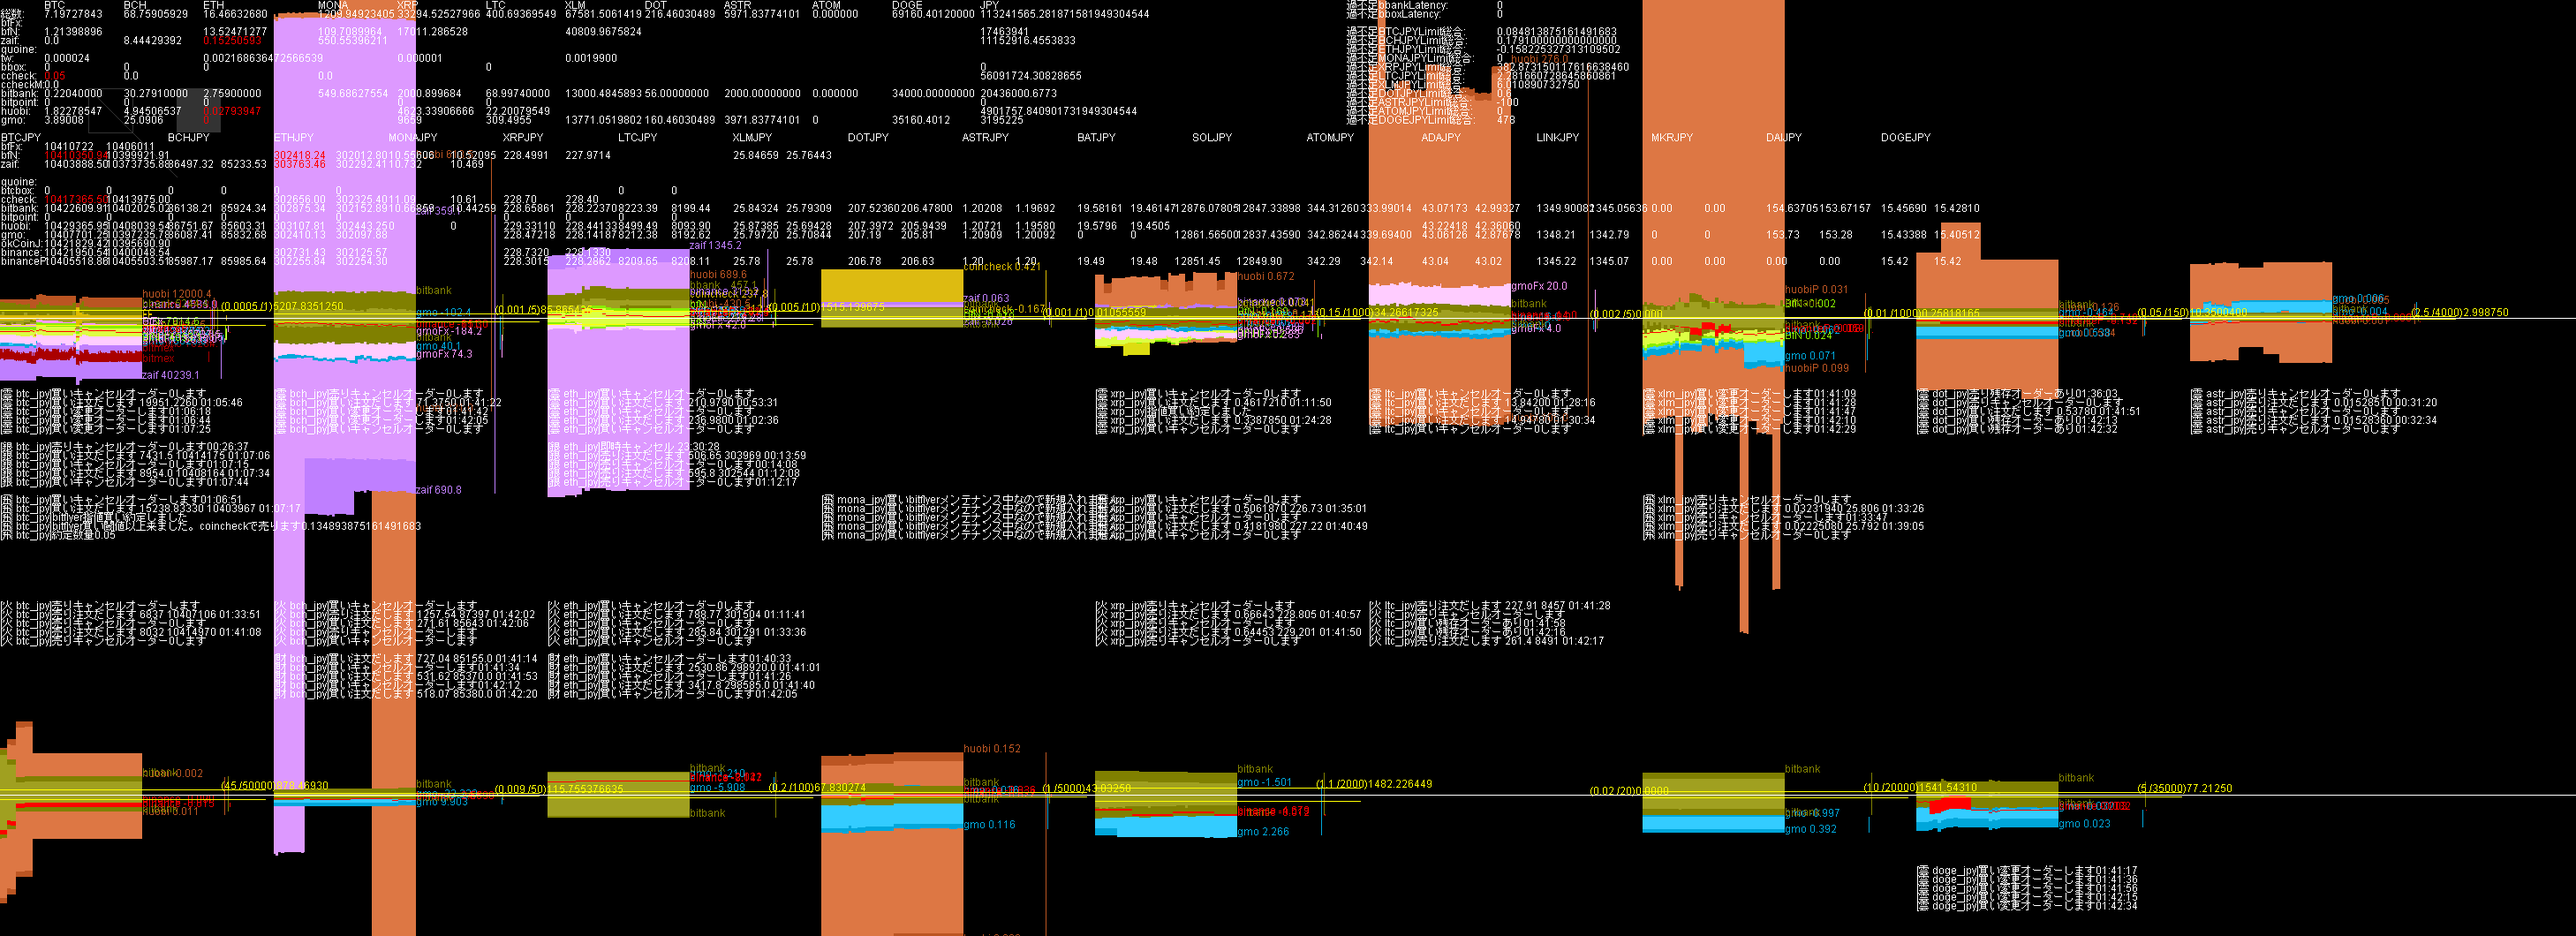
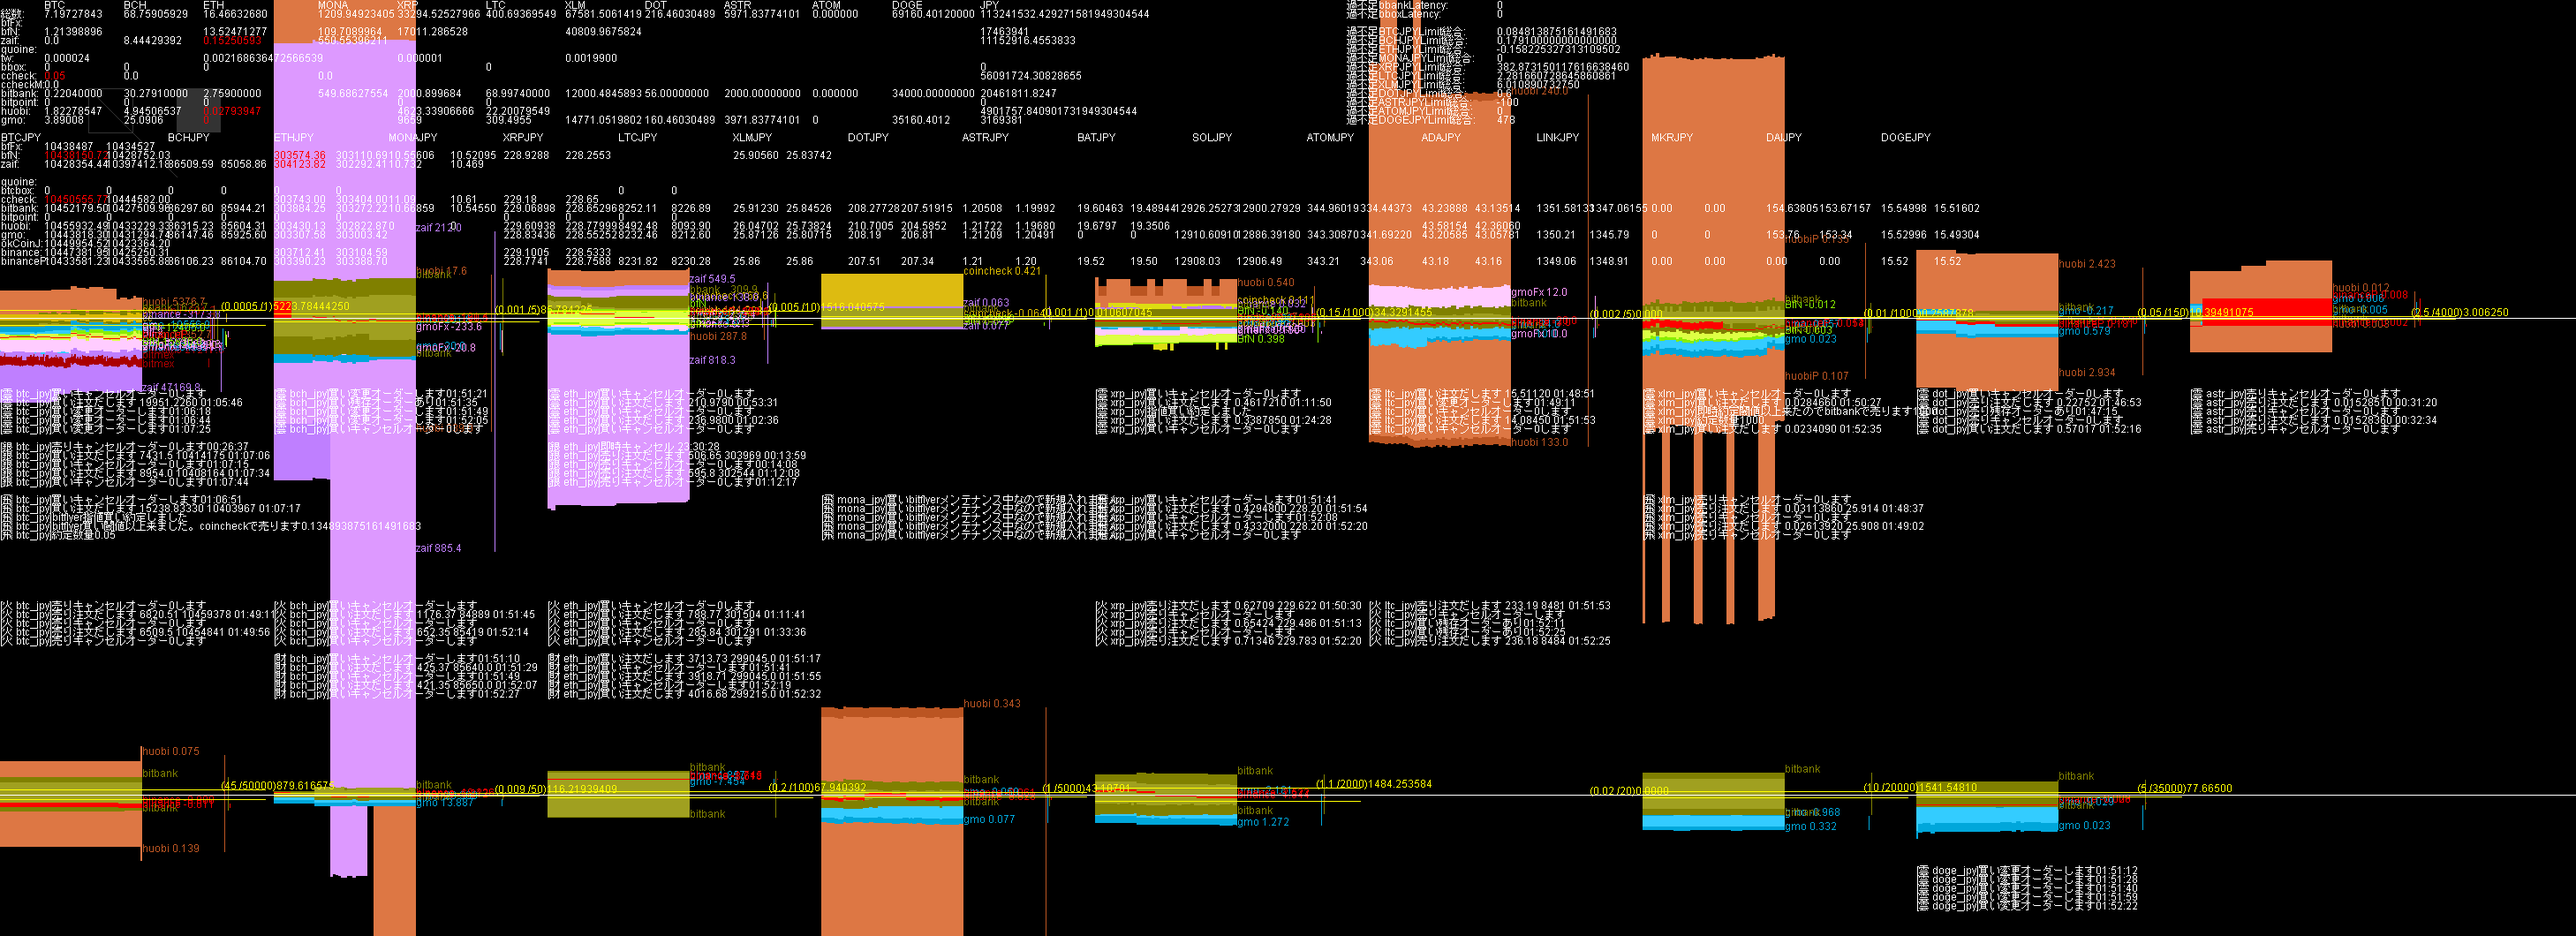
Update HTML file via Java

diff --git a/ca.html b/ca.html
@@ -16,6 +16,9 @@ th { background-color: #222; text-align: center; }
     <tr><th>ddhhmm</th><th>bfJPY</th><th>財JPY</th><th>ccJPY</th><th>銀JPY</th><th>火JPY</th><th>雲JPY</th><th>bfBTC</th><th>財BTC</th><th>ccBTC</th><th>銀BTC</th><th>火BTC</th><th>雲BTC</th><th>bfBCH</th><th>財BCH</th><th>ccBCH</th><th>銀BCH</th><th>火BCH</th><th>雲BCH</th><th>bfETH</th><th>財ETH</th><th>ccETH</th><th>銀ETH</th><th>火ETH</th><th>雲ETH</th><th>bfMONA</th><th>財MONA</th><th>ccMONA</th><th>銀MONA</th><th>火MONA</th><th>雲MONA</th><th>bfXRP</th><th>財XRP</th><th>ccXRP</th><th>銀XRP</th><th>火XRP</th><th>雲XRP</th><th>bfLTC</th><th>財LTC</th><th>ccLTC</th><th>銀LTC</th><th>火LTC</th><th>雲LTC</th><th>bfXLM</th><th>財XLM</th><th>ccXLM</th><th>銀XLM</th><th>火XLM</th><th>雲XLM</th><th>bfDOT</th><th>財DOT</th><th>ccDOT</th><th>銀DOT</th><th>火DOT</th><th>雲DOT</th><th>bfASTR</th><th>財ASTR</th><th>ccASTR</th><th>銀ASTR</th><th>火ASTR</th><th>雲ASTR</th><th>bfDOGE</th><th>財DOGE</th><th>ccDOGE</th><th>銀DOGE</th><th>火DOGE</th><th>雲DOGE</th>    </tr>  </thead>
   <tbody>
     <tr>
+<td>170152</td><td>01746</td><td>01115</td><td>05609</td><td>02046</td><td>00490</td><td>00316</td><td>01.21</td><td>00.00</td><td><span style="color: #ff69b4">00.05</span></td><td>00.22</td><td>01.82</td><td>03.89</td><td>00.00</td><td>08.44</td><td>00.00</td><td>30.28</td><td>04.95</td><td>25.09</td><td>13.52</td><td><span style="color: #ff69b4">00.15</span></td><td>00.00</td><td>02.76</td><td><span style="color: #ff69b4">00.03</span></td><td><span style="color: #ff69b4">00.00</span></td><td>0109.7</td><td>0550.6</td><td>0000.0</td><td>0549.7</td><td>0000.0</td><td>0000.0</td><td>17011</td><td>00000</td><td>00000</td><td>02001</td><td>04623</td><td>09659</td><td>00.00</td><td>00.00</td><td>00.00</td><td>69.00</td><td>22.20</td><td>309.50</td><td><span style="color: #4169e1">00.00</span></td><td>00.00</td><td>00.00</td><td>12000.48</td><td>00.00</td><td>14771.05</td><td>00.00</td><td>00.00</td><td>00.00</td><td>56.00</td><td>00.00</td><td>160.46</td><td>00.00</td><td>00.00</td><td>00.00</td><td>2000.00</td><td>00.00</td><td>3971.84</td><td>00.00</td><td>00.00</td><td>00.00</td><td>34000.00</td><td>00.00</td><td>35160.40</td>
+    </tr>
+    <tr>
 <td>170142</td><td>01746</td><td>01115</td><td>05609</td><td>02043</td><td>00490</td><td>00319</td><td>01.21</td><td>00.00</td><td><span style="color: #ff69b4">00.05</span></td><td>00.22</td><td>01.82</td><td>03.89</td><td>00.00</td><td>08.44</td><td>00.00</td><td>30.28</td><td>04.95</td><td>25.09</td><td>13.52</td><td><span style="color: #ff69b4">00.15</span></td><td>00.00</td><td>02.76</td><td><span style="color: #ff69b4">00.03</span></td><td><span style="color: #ff69b4">00.00</span></td><td>0109.7</td><td>0550.6</td><td>0000.0</td><td>0549.7</td><td>0000.0</td><td>0000.0</td><td>17011</td><td>00000</td><td>00000</td><td>02001</td><td>04623</td><td>09659</td><td>00.00</td><td>00.00</td><td>00.00</td><td>69.00</td><td>22.20</td><td>309.50</td><td><span style="color: #4169e1">00.00</span></td><td>00.00</td><td>00.00</td><td>13000.48</td><td>00.00</td><td>13771.05</td><td>00.00</td><td>00.00</td><td>00.00</td><td>56.00</td><td>00.00</td><td>160.46</td><td>00.00</td><td>00.00</td><td>00.00</td><td>2000.00</td><td>00.00</td><td>3971.84</td><td>00.00</td><td>00.00</td><td>00.00</td><td>34000.00</td><td>00.00</td><td>35160.40</td>
     </tr>
     <tr>
